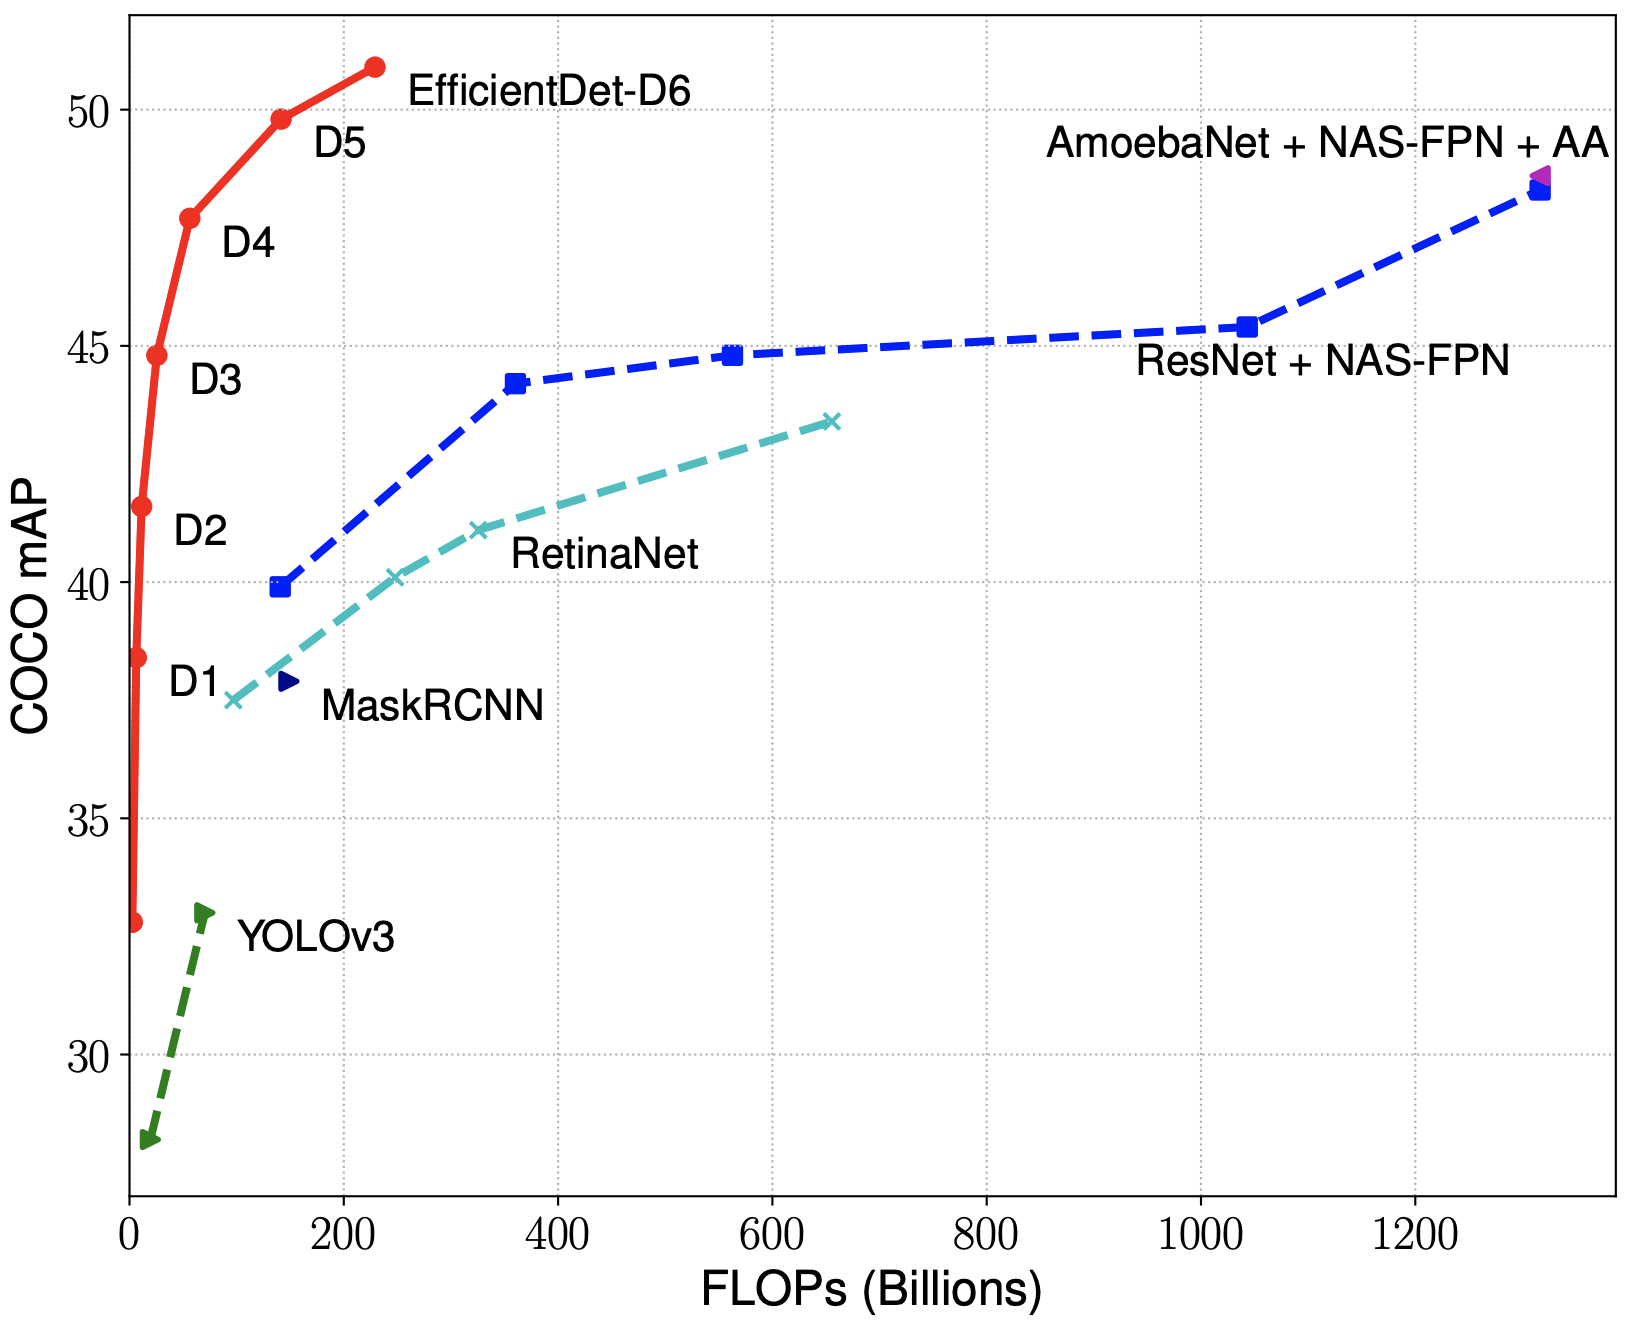
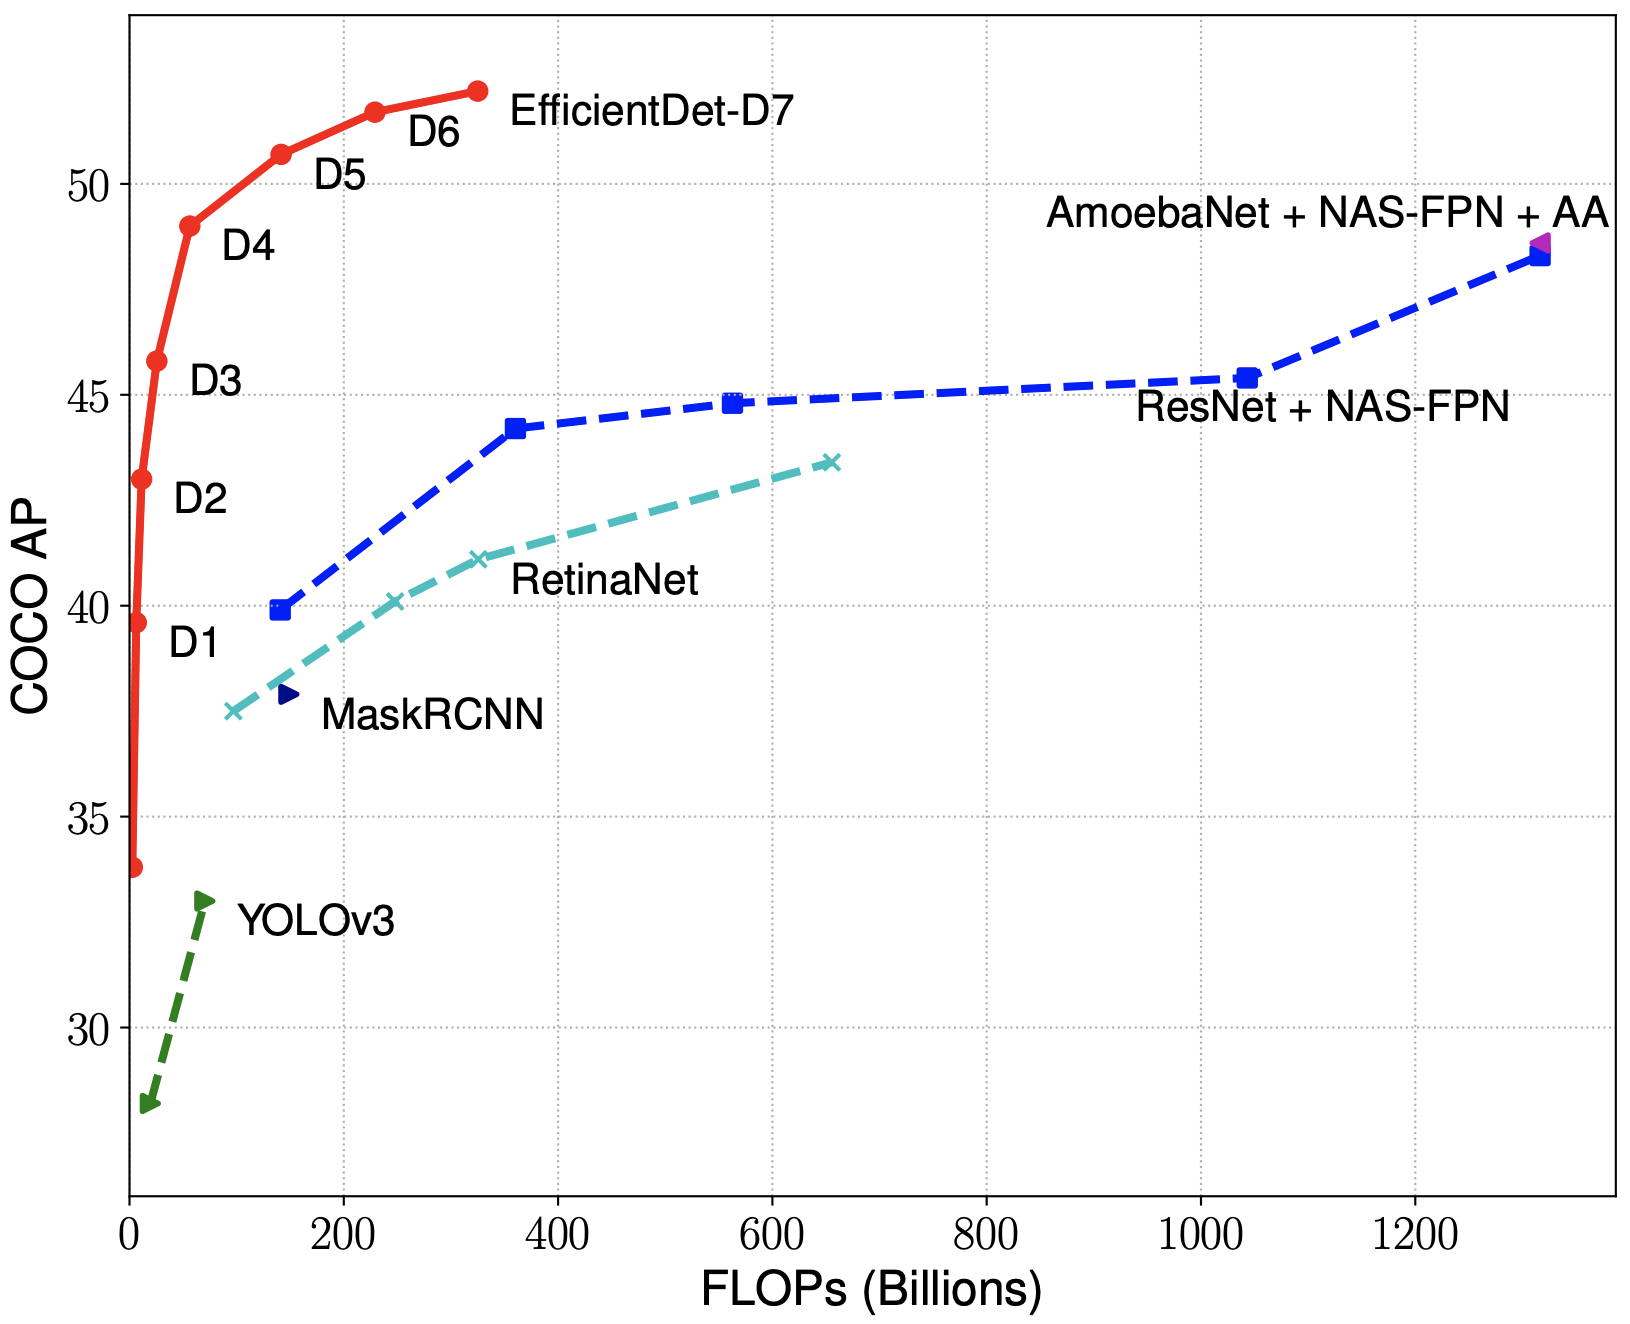
Update test-dev results and add EfficientDet-D7.

diff --git a/efficientdet/README.md b/efficientdet/README.md
@@ -5,8 +5,9 @@
 
 Updates:
 
-  - **Mar26: Fixed a few bugs and updated all checkpoints/results.**
-  - **Mar24: Added tutorial with visualization and coco eval: [tutorial.ipynb](tutorial.ipynb)**
+  - **Apr1: Updated results for test-dev and added EfficientDet-D7 (52.2 AP).**
+  - Mar26: Fixed a few bugs and updated all checkpoints/results.
+  - Mar24: Added tutorial with visualization and coco eval: [tutorial.ipynb](tutorial.ipynb)
   - Mar 13: Released the initial code and models.
 
 ## 1. About EfficientDet Models
@@ -21,12 +22,12 @@ EfficientDets are developed based on the advanced backbone, a new BiFPN, and a n
 </p>
 
   * **Backbone**: we employ the more advanced [EfficientNets](https://arxiv.org/abs/1905.11946) as our backbone networks.
-  * **BiFPN**: we propose a new bi-directional feature network, named BiFPN, to enable easy and fast feature fusion. In addition to the bi-directional topology, we also propose a new fast normalized fusion that enables better fusion with negligible latency cost.
+  * **BiFPN**: we propose BiFPN, a bi-directional feature network that enables easy and fast feature fusion. In addition to the topology, we also propose a new fast normalized fusion that enables better fusion with negligible latency cost.
   * **Scaling**: we propose to use a single compound scaling factor to govern the network depth, width, and resolution for all backbone, feature network, and prediction networks.
 
-Based on the BiFPN topology and the fast feature fusion technique, we first develop a baseline detection model EfficientDet-D0, which has comparable accuracy as [YOLOv3](https://arxiv.org/abs/1804.02767). Then we scale up this baseline model using our compound scaling method to obtain a list of detection models EfficientDet-D1 to D6, with different trade-offs between accuracy and model complexity.
+Our model family starts from EfficientDet-D0, which has comparable accuracy as [YOLOv3](https://arxiv.org/abs/1804.02767). Then we scale up this baseline model using our compound scaling method to obtain a list of detection models EfficientDet-D1 to D6, with different trade-offs between accuracy and model complexity.
 
-Our evaluation on COCO dataset show our EfficientDets outperform previous detectors by a large margin: In particular, our EfficientDet-D6 achieves state-of-the-art 50.9 mAP on COCO dataset, with 51.9M parameters and 229B FLOPs. Compared to previous best single-model AmoebaNet + NAS-FPN + AutoAugment ([ref](https://arxiv.org/abs/1906.11172)), our model achieves higher accuracy with 4x fewer parameters and 13x fewer FLOPs, and meanwhile runs 3x - 5x faster on GPU/CPU.
+In particular, our single-model single-scale EfficientDet-D7 achieves 52.2 mAP on COCO test-dev set. Compared to previous best single-model AmoebaNet + NAS-FPN + AutoAugment ([ref](https://arxiv.org/abs/1906.11172)), our model achieves higher accuracy with 4x fewer parameters and 13x fewer FLOPs, and meanwhile runs 3x - 5x faster on GPU/CPU.
 
 
 <table border="0">
@@ -46,22 +47,20 @@ Our evaluation on COCO dataset show our EfficientDets outperform previous detect
 
 ## 2. Pretrained EfficientDet Checkpoints
 
-We have provided a list of EfficientNet checkpoints for EfficientNet checkpoints:.
-
-  * With the baseline RetinaNet preprocessing, we have achieved state-of-the-art results.
-
+We have provided a list of EfficientDet checkpoints and results as follows:
 
 |       Model    |  AP    |  AP<sub>50</sub> | AP<sub>75</sub> |AP<sub>S</sub>   |  AP<sub>M</sub>    |  AP<sub>L</sub>   | | #params | #FLOPs |
 |----------     |------ |------ | -------- | ------| ------| ------ |------ |------ |  :------: |
-|     EfficientDet-D0 ([ckpt](https://storage.googleapis.com/cloud-tpu-checkpoints/efficientdet/coco/efficientdet-d0.tar.gz), [result](https://storage.googleapis.com/cloud-tpu-checkpoints/efficientdet/coco/efficientdet-d0-coco.txt))    | 33.5 | 51.6 | 35.2 | 52.6 | 38.7 | 12.4 |  | 3.9M | 2.54B  |
-|     EfficientDet-D1 ([ckpt](https://storage.googleapis.com/cloud-tpu-checkpoints/efficientdet/coco/efficientdet-d1.tar.gz), [result](https://storage.googleapis.com/cloud-tpu-checkpoints/efficientdet/coco/efficientdet-d1-coco.txt))    | 39.1 | 58.1 | 41.8 | 56.9 | 44.7 | 18.6 | | 6.6M | 6.10B |
-|     EfficientDet-D2 ([ckpt](https://storage.googleapis.com/cloud-tpu-checkpoints/efficientdet/coco/efficientdet-d2.tar.gz), [result](https://storage.googleapis.com/cloud-tpu-checkpoints/efficientdet/coco/efficientdet-d2-coco.txt))    | 42.5 | 61.7 | 45.3 | 59.0 | 48.0 | 23.7 | | 8.1M | 11.0B |
-|     EfficientDet-D3 ([ckpt](https://storage.googleapis.com/cloud-tpu-checkpoints/efficientdet/coco/efficientdet-d3.tar.gz), [result](https://storage.googleapis.com/cloud-tpu-checkpoints/efficientdet/coco/efficientdet-d3-coco.txt))    | 45.9 | 65.0 | 49.0 | 61.7 | 50.2 | 28.0 | | 12.0M | 24.9B |
-|     EfficientDet-D4 ([ckpt](https://storage.googleapis.com/cloud-tpu-checkpoints/efficientdet/coco/efficientdet-d4.tar.gz), [result](https://storage.googleapis.com/cloud-tpu-checkpoints/efficientdet/coco/efficientdet-d4-coco.txt))    |  49.0 | 68.5 | 52.9 | 64.0 | 53.7 | 33.4 |  | 20.7M | 55.2B |
-|     EfficientDet-D5 ([ckpt](https://storage.googleapis.com/cloud-tpu-checkpoints/efficientdet/coco/efficientdet-d5.tar.gz), [result](https://storage.googleapis.com/cloud-tpu-checkpoints/efficientdet/coco/efficientdet-d5-coco.txt))    |  50.5 | 70.0 | 54.4 | 64.6 | 54.9 | 34.3 |  | 33.7M | 135.4B |
-|     EfficientDet-D6 ([ckpt](https://storage.googleapis.com/cloud-tpu-checkpoints/efficientdet/coco/efficientdet-d6.tar.gz), [result](https://storage.googleapis.com/cloud-tpu-checkpoints/efficientdet/coco/efficientdet-d6-coco.txt))    |  51.3 | 70.5 | 55.4 | 65.2 | 55.6 | 35.1 | | 51.9M  |  225.6B  |
+|     EfficientDet-D0 ([ckpt](https://storage.googleapis.com/cloud-tpu-checkpoints/efficientdet/coco/efficientdet-d0.tar.gz), [val](https://storage.googleapis.com/cloud-tpu-checkpoints/efficientdet/coco/val/d0_coco_val.txt), [test-dev](https://storage.googleapis.com/cloud-tpu-checkpoints/efficientdet/coco/testdev/d0_coco_test-dev2017.txt))    | 33.8 | 52.2 | 35.8 | 12.0 | 38.3 | 51.2 |  | 3.9M | 2.54B  |
+|     EfficientDet-D1 ([ckpt](https://storage.googleapis.com/cloud-tpu-checkpoints/efficientdet/coco/efficientdet-d1.tar.gz), [val](https://storage.googleapis.com/cloud-tpu-checkpoints/efficientdet/coco/val/d1_coco_val.txt), [test-dev](https://storage.googleapis.com/cloud-tpu-checkpoints/efficientdet/coco/testdev/d1_coco_test-dev2017.txt))    | 39.6 | 58.6 | 42.3 | 17.9 | 44.3 | 56.0 | | 6.6M | 6.10B |
+|     EfficientDet-D2 ([ckpt](https://storage.googleapis.com/cloud-tpu-checkpoints/efficientdet/coco/efficientdet-d2.tar.gz), [val](https://storage.googleapis.com/cloud-tpu-checkpoints/efficientdet/coco/val/d2_coco_val.txt), [test-dev](https://storage.googleapis.com/cloud-tpu-checkpoints/efficientdet/coco/testdev/d2_coco_test-dev2017.txt))    | 43.0 | 62.3 | 46.2 | 22.5 | 47.0 | 58.4 | | 8.1M | 11.0B |
+|     EfficientDet-D3 ([ckpt](https://storage.googleapis.com/cloud-tpu-checkpoints/efficientdet/coco/efficientdet-d3.tar.gz), [val](https://storage.googleapis.com/cloud-tpu-checkpoints/efficientdet/coco/val/d3_coco_val.txt), [test-dev](https://storage.googleapis.com/cloud-tpu-checkpoints/efficientdet/coco/testdev/d3_coco_test-dev2017.txt))    | 45.8 | 65.0 | 49.3 | 26.6 | 49.4 | 59.8 | | 12.0M | 24.9B |
+|     EfficientDet-D4 ([ckpt](https://storage.googleapis.com/cloud-tpu-checkpoints/efficientdet/coco/efficientdet-d4.tar.gz), [val](https://storage.googleapis.com/cloud-tpu-checkpoints/efficientdet/coco/val/d4_coco_val.txt), [test-dev](https://storage.googleapis.com/cloud-tpu-checkpoints/efficientdet/coco/testdev/d4_coco_test-dev2017.txt))    | 49.4 | 69.0 | 53.4 | 30.3 | 53.2 | 63.2 |  | 20.7M | 55.2B |
+|     EfficientDet-D5 ([ckpt](https://storage.googleapis.com/cloud-tpu-checkpoints/efficientdet/coco/efficientdet-d5.tar.gz), [val](https://storage.googleapis.com/cloud-tpu-checkpoints/efficientdet/coco/val/d5_coco_val.txt), [test-dev](https://storage.googleapis.com/cloud-tpu-checkpoints/efficientdet/coco/testdev/d5_coco_test-dev2017.txt))    | 50.7 | 70.2 | 54.7 | 33.2 | 53.9 | 63.2 |  | 33.7M | 135.4B |
+|     EfficientDet-D6 ([ckpt](https://storage.googleapis.com/cloud-tpu-checkpoints/efficientdet/coco/efficientdet-d6.tar.gz), [val](https://storage.googleapis.com/cloud-tpu-checkpoints/efficientdet/coco/val/d6_coco_val.txt), [test-dev](https://storage.googleapis.com/cloud-tpu-checkpoints/efficientdet/coco/testdev/d6_coco_test-dev2017.txt))    | 51.7 | 71.2 | 56.0 | 34.1 | 55.2 | 64.1 | | 51.9M  |  225.6B  |
+|     EfficientDet-D7 ([ckpt](https://storage.googleapis.com/cloud-tpu-checkpoints/efficientdet/coco/efficientdet-d7.tar.gz), [val](https://storage.googleapis.com/cloud-tpu-checkpoints/efficientdet/coco/val/d7_coco_val.txt), [test-dev](https://storage.googleapis.com/cloud-tpu-checkpoints/efficientdet/coco/testdev/d7_coco_test-dev2017.txt))    | 52.2 | 71.4 | 56.3 | 34.8 | 55.5 | 64.6 | | 51.9M  |  324.8B  |
 
-  ** All checkpoints are trained without autoaugmentation.
+  ** <em>val</em> denotes validation results, <em>test-dev</em> denotes test-dev2017 results. AP results in the table are for COCO test-dev2017. All checkpoints are trained with baseline preprocessing (no autoaugmentation).
 
 ## 3. Run inference.
 
